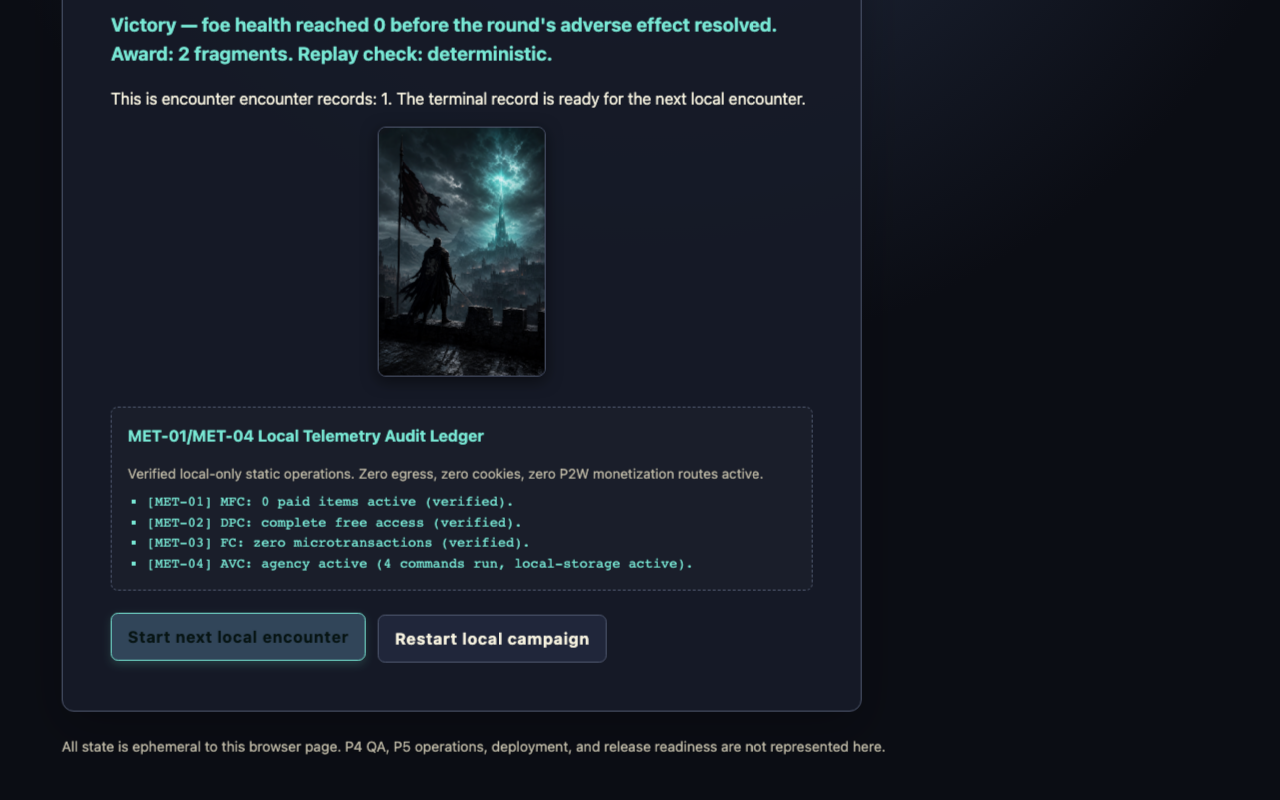
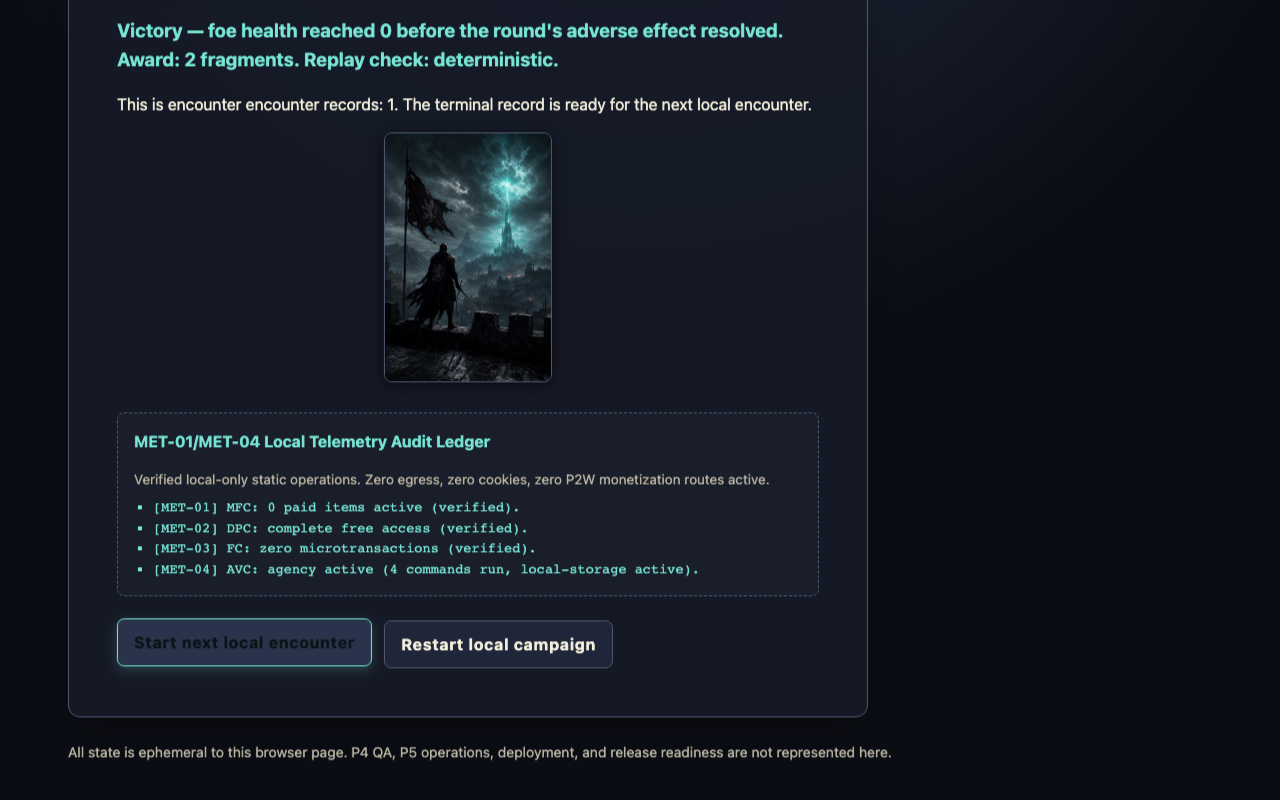
fix: single-application guarantee for reducer-routed Stage 5 units + resume replayEncounter import; E2E single-application probe, BUILD_TAG c008 pins

diff --git a/app.js b/app.js
@@ -8,6 +8,7 @@ import {
   initialEncounter,
   makeCommand,
   reduceEncounter,
+  replayEncounter,
   settleCampaign,
   validateDeterministicReplay,
 } from "./game-core.js";
@@ -828,33 +829,47 @@ function rtsLoop(timestamp) {
         nextUnits.push(unit);
       }
     } else if (unit.x >= 100) {
-      // Unit reached Foe base! Strike!
-      if (unit.type === "STRIKE") {
-        encounter.foe_health = Math.max(0, encounter.foe_health - 2);
-        play("strike");
-        triggerFx("STRIKE");
-        if (dom.voidAvatar && dom.voidAvatar.classList) {
-          dom.voidAvatar.classList.add("damage-flash");
-          setTimeout(() => {
-            if (dom.voidAvatar && dom.voidAvatar.classList) {
-              dom.voidAvatar.classList.remove("damage-flash");
-            }
-          }, 400);
+      // Unit reached Foe base!
+      if (unit.semanticResolved) {
+        // Reducer-routed round (Stage 5): the effect already applied at
+        // command time — arrival is a pure impact animation, no state change.
+        if (unit.type === "STRIKE") {
+          play("strike");
+          triggerFx("STRIKE");
+        } else if (unit.type === "BRACE") {
+          play("brace");
         }
-      } else if (unit.type === "BRACE") {
-        encounter.guard = Math.min(2, encounter.guard + 2);
-        play("brace");
-      }
+        if (unit.element && unit.element.parentNode) {
+          unit.element.parentNode.removeChild(unit.element);
+        }
+      } else {
+        if (unit.type === "STRIKE") {
+          encounter.foe_health = Math.max(0, encounter.foe_health - 2);
+          play("strike");
+          triggerFx("STRIKE");
+          if (dom.voidAvatar && dom.voidAvatar.classList) {
+            dom.voidAvatar.classList.add("damage-flash");
+            setTimeout(() => {
+              if (dom.voidAvatar && dom.voidAvatar.classList) {
+                dom.voidAvatar.classList.remove("damage-flash");
+              }
+            }, 400);
+          }
+        } else if (unit.type === "BRACE") {
+          encounter.guard = Math.min(2, encounter.guard + 2);
+          play("brace");
+        }
 
-      // Remove element from DOM
-      if (unit.element && unit.element.parentNode) {
-        unit.element.parentNode.removeChild(unit.element);
-      }
+        // Remove element from DOM
+        if (unit.element && unit.element.parentNode) {
+          unit.element.parentNode.removeChild(unit.element);
+        }
 
-      if (encounter.foe_health <= 0) {
-        encounter.outcome = "VICTORY";
-        finishEncounter();
-        return;
+        if (encounter.foe_health <= 0) {
+          encounter.outcome = "VICTORY";
+          finishEncounter();
+          return;
+        }
       }
     } else {
       // Update visual position
@@ -929,7 +944,7 @@ const UNIT_MONITOR_NAME_KEYS = {
   VOIDSPAWN: "unitVoidspawn",
 };
 
-function spawnUnit(type, { hostile = false, startX = null, speed = null } = {}) {
+function spawnUnit(type, { hostile = false, startX = null, speed = null, semanticResolved = false } = {}) {
   let originPct;
   if (hostile) {
     // Hostile spawns enter at the lane's right edge (or a caller-provided
@@ -969,6 +984,9 @@ function spawnUnit(type, { hostile = false, startX = null, speed = null } = {}) 
     speed: Number.isFinite(speed) ? speed : stageRtPreset().unitSpeed * (UNIT_SPEED_MULTIPLIERS[type] || 1),
     direction: hostile ? -1 : 1,
     hostile: hostile,
+    // stage1-rules-v2 Stage 5: the reducer already applied this command's
+    // semantic effect at command time — arrival must stay presentation-only.
+    semanticResolved: semanticResolved,
     element: element
   });
 }
@@ -1253,7 +1271,7 @@ function recordCommand(command) {
       play(command.toLowerCase());
       triggerFx(command);
       if (command === "STRIKE" || command === "DISRUPT") {
-        spawnUnit(command);
+        spawnUnit(command, { semanticResolved: true });
         if (dom.voidAvatar && dom.voidAvatar.classList) {
           dom.voidAvatar.classList.add("damage-flash");
           setTimeout(() => {
@@ -1263,7 +1281,7 @@ function recordCommand(command) {
           }, 400);
         }
       } else if (command === "BRACE") {
-        spawnUnit("BRACE");
+        spawnUnit("BRACE", { semanticResolved: true });
       } else if (command === "RECOVER" && dom.knightAvatar && dom.knightAvatar.classList) {
         dom.knightAvatar.classList.add("recover-pulse");
         setTimeout(() => {

diff --git a/_workspace/20260716-stage-depth-cycle-008-v1/production/decision-log.md b/_workspace/20260716-stage-depth-cycle-008-v1/production/decision-log.md
@@ -24,3 +24,16 @@ status: ready
 - Boundary: game-core.js untouched by this lane; stages 1-4 RT behavior
   unchanged pending peer balance pass; ship path push cycle-008:main without
   touching the shared worktree.
+
+## C008-D-002 — Post-retro corrections (2026-07-16T19:55Z, appended)
+
+- QA advisory finding: reducer-routed Stage 5 STRIKE/BRACE units re-applied
+  their effect on lane arrival (double application invisible to the fast E2E).
+  Fix: `semanticResolved` flag on reducer-spawned units — arrival is now a pure
+  impact animation; single-application proven by a new E2E probe (save-seeded
+  Stage 5, one STRIKE, foe 5→3 at command, unchanged 3 after full traversal).
+- Latent bug found by that probe: `loadGameState` called `replayEncounter`
+  without importing it — every resume silently fell back to the canonical seed
+  state. Fixed (import + fake-DOM proxy re-export).
+- E2E BUILD_TAG pins moved c007→c008. All suites re-green: vertical-slice 3/3,
+  game-core 14/14, 5-stage sim PASS, browser E2E exit 0.